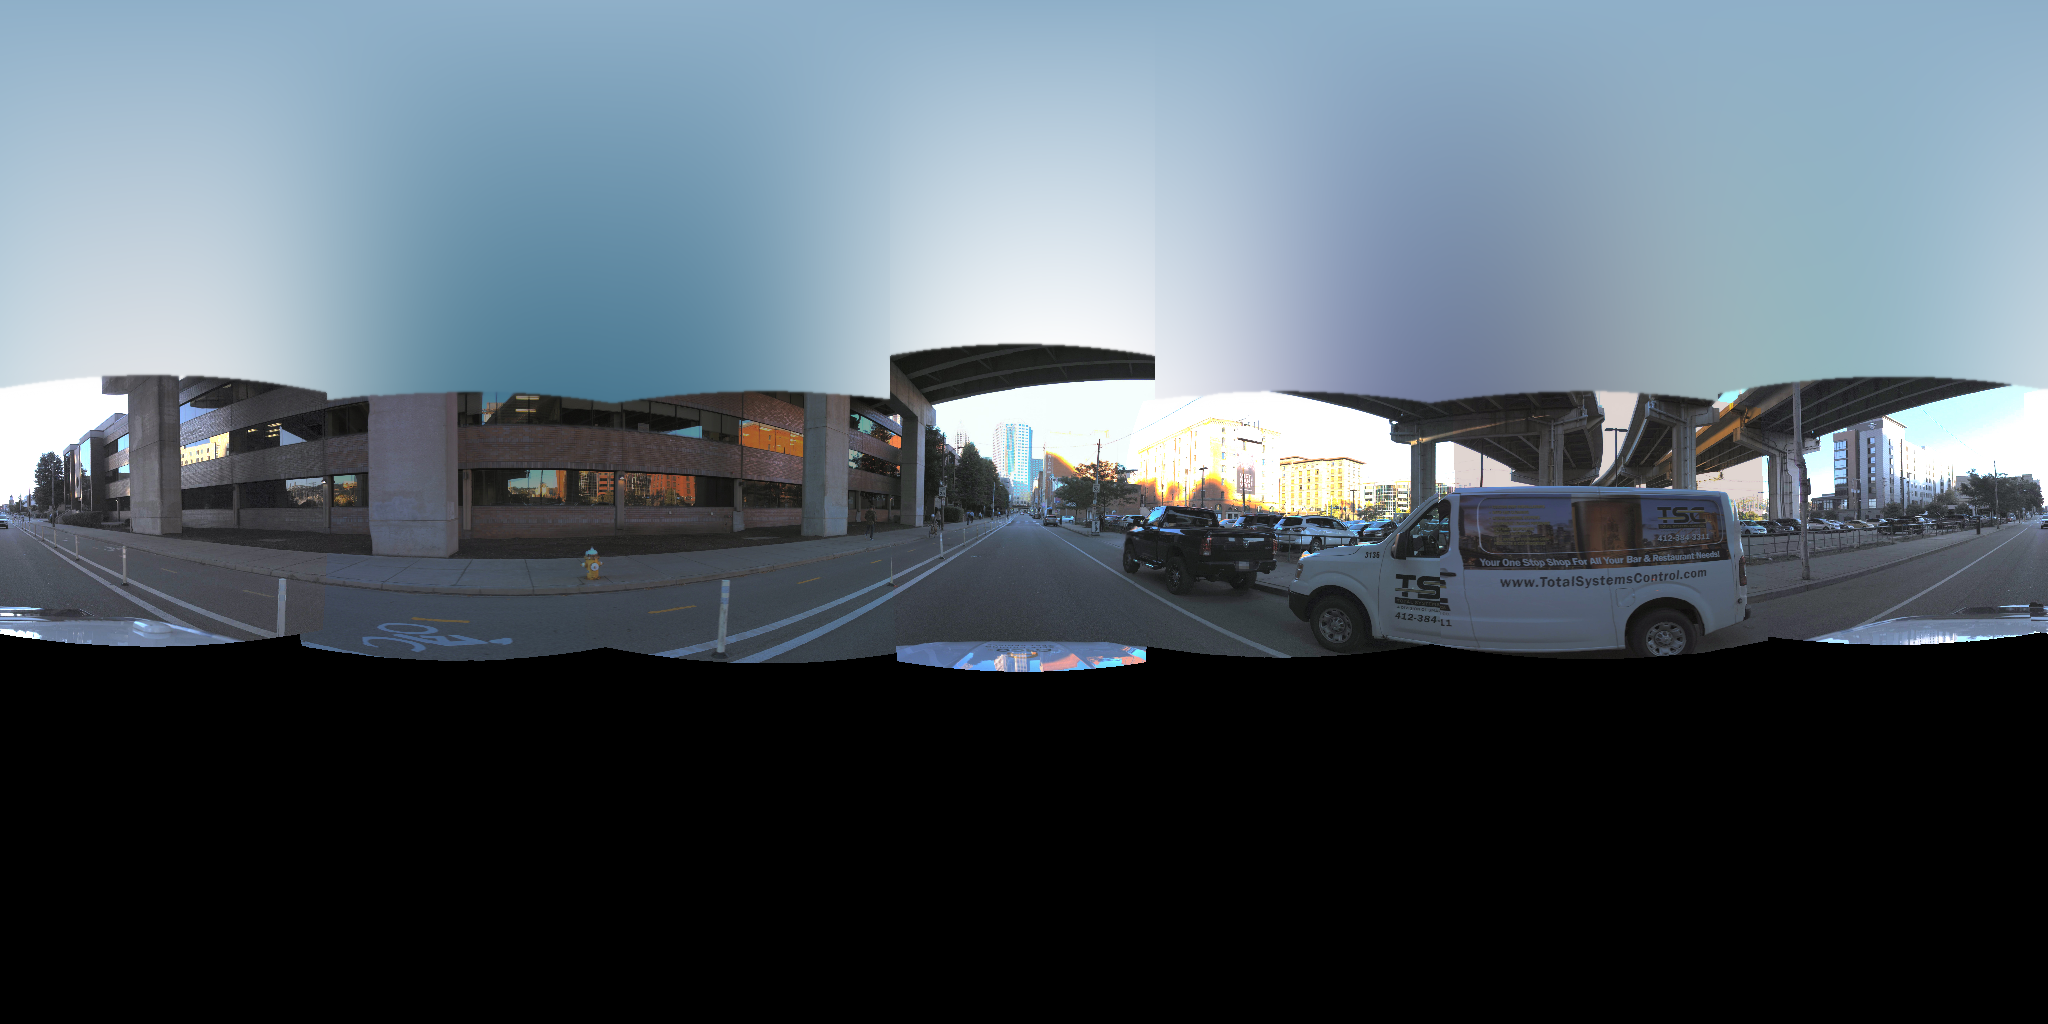
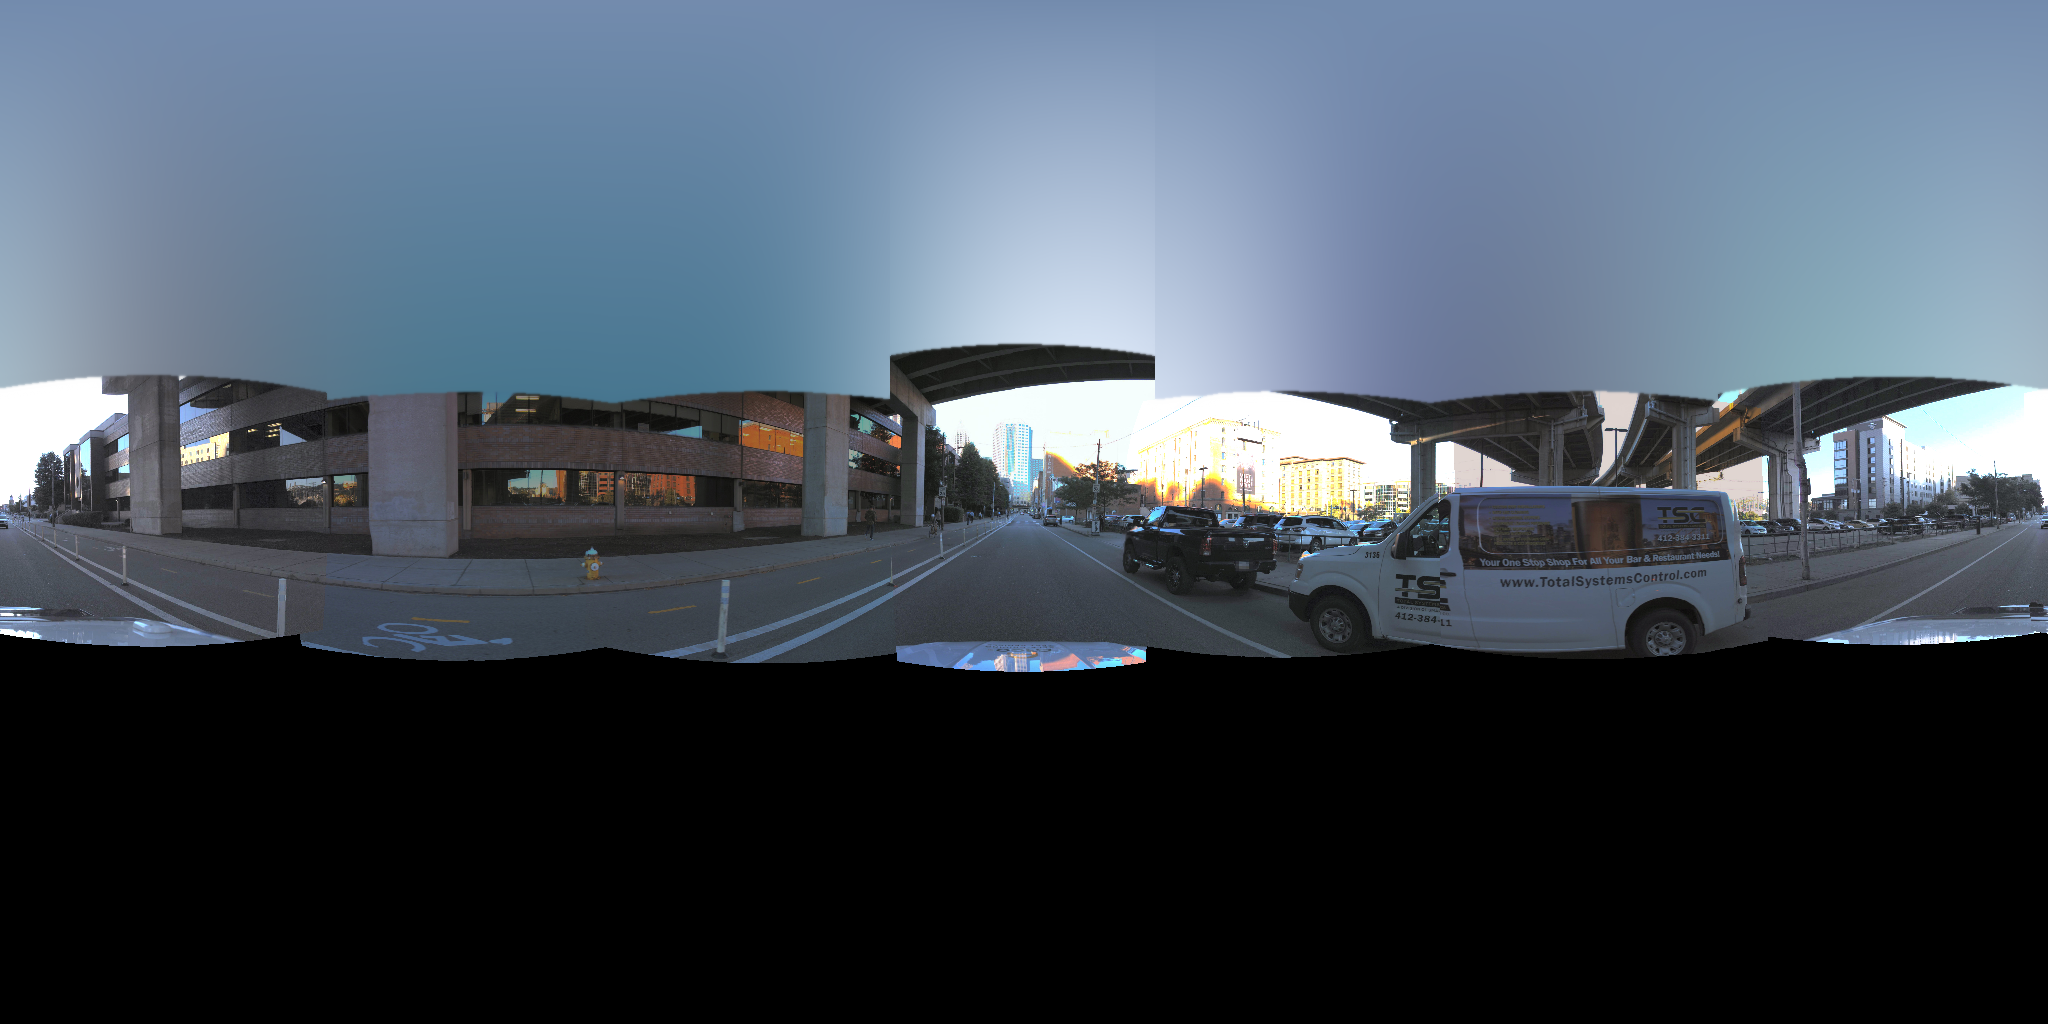
sky-fill v3.3: strictly-blue anchor vote (B>=R+15) - brightness cannot separate cloud from awning; dome=clear-sky gradient, real clouds stay in the observed band

Changed region(s): [[0.0, 0.0, 1.0, 0.4062]]

diff --git a/scripts/phase3/sky_fill_gradient.py b/scripts/phase3/sky_fill_gradient.py
@@ -42,9 +42,11 @@ def fill_sky(img: np.ndarray) -> np.ndarray:
             b, g, r = s[2], s[1], s[0]  # note: caller passes RGB; treat generically
             bright = s.mean()
             blueish = s[2] >= s[0] - 8   # RGB: B channel >= R - 8
-            # sky has two photometric modes: CLOUD (very bright, any hue) or BLUE SKY
-            # (blueish and moderately bright); building/awning grays are neither.
-            valid[u] = (bright > 180) or (bright > 110 and s[2] >= s[0] + 15)
+            # anchor on STRICTLY BLUE sky only: brightness cannot separate a white
+            # cloud from a white awning at the FOV cut, but neither cloud nor awning
+            # should anchor the dome — the dome is a clear-sky gradient and real
+            # clouds stay in the observed band. B >= R + 15 excludes neutral grays.
+            valid[u] = bright > 110 and s[2] >= s[0] + 15
     if not valid.any():
         valid[:] = True
     # non-sky columns borrow the nearest sky column (circular EDT in u)
